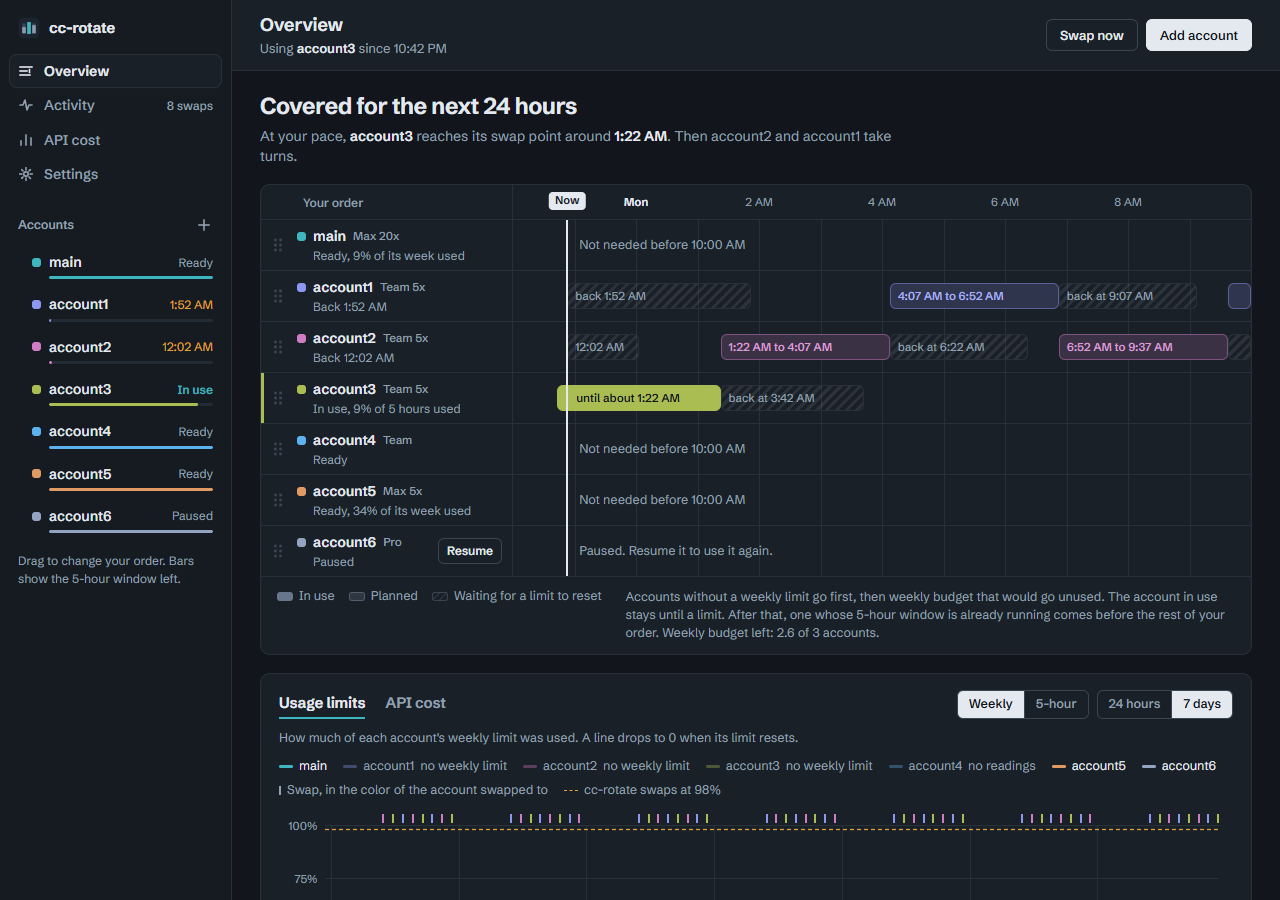
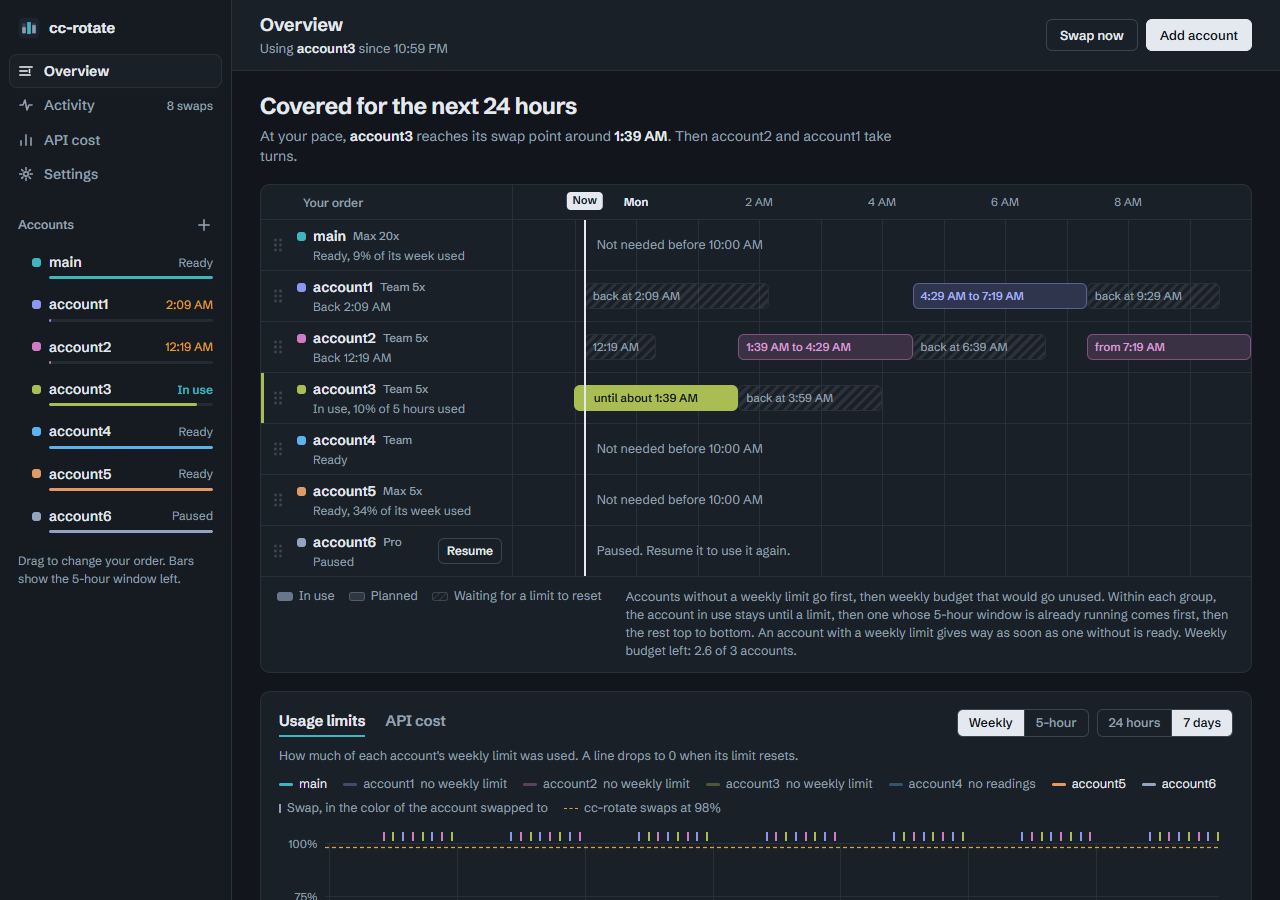
docs: describe turns at a limit, and retake the screenshots

diff --git a/docs/specs/2026-10-24-cc-rotate.md b/docs/specs/2026-10-24-cc-rotate.md
@@ -399,8 +399,9 @@ While an account is in use, the snapshot carries a forecast (`forecast::forecast
 - The pool is played forward in 5-minute steps for up to 24 hours with the real pick order (`scheduler::pick`, expiring budgets included): the account in use spends `pace * five_per_hour` 5-hour points an hour and `weekly_per_5h` weekly points for each, a limit hands over to the next pick, an account that may have a weekly limit gives way to one without as soon as one is ready (`scheduler::switch_back_target`, without the cooldown), a 5-hour window starts with its first use and resets 5 hours later, a weekly one resets a week after its reset.
 - The first step with no account left is `runs_out_at`; the earliest reset of a usable account after it is `free_again_at`.
 - Play goes on past that point, the way sessions stopped at a limit pick up again (section 21): steps with no account left use nothing, and the first account to free up takes over.
-- Every stretch an account is in use is a `Turn` in `plan`, oldest first: the account, from and to (epoch seconds), and `rests_until`, when it is usable again if the turn ended at a limit (none when it gave way to an account without a weekly limit, or the horizon ended it).
+- Every stretch an account is in use is a `Turn` in `plan`, oldest first: the account, from and to (epoch seconds), `at_limit` (it ended at a limit, rather than giving way to an account without a weekly limit or being cut off by the horizon), and `rests_until`, when it is usable again after a limit whose reading says when it resets.
   The first turn starts now; gaps between turns are times with no account left.
+  An account in use that hands over at once (already past a threshold, as during a swap's cooldown, or giving way to an account without a weekly limit) has no turn: the plan starts with the account that takes over, and the dashboard shows the wait from the account's own `available_at`.
 
 The dashboard draws the plan (section 11) under a headline ("Covered for the next 24 hours", or "Runs out around 3:10 PM" with when the first account frees up), `cc-rotate-ctl status` a line to the same effect, and the app notifies once when the pool would run out within the hour, again only after a forecast has shown room for at least two hours since, or a break from work left no forecast while the pool was not out.
 
